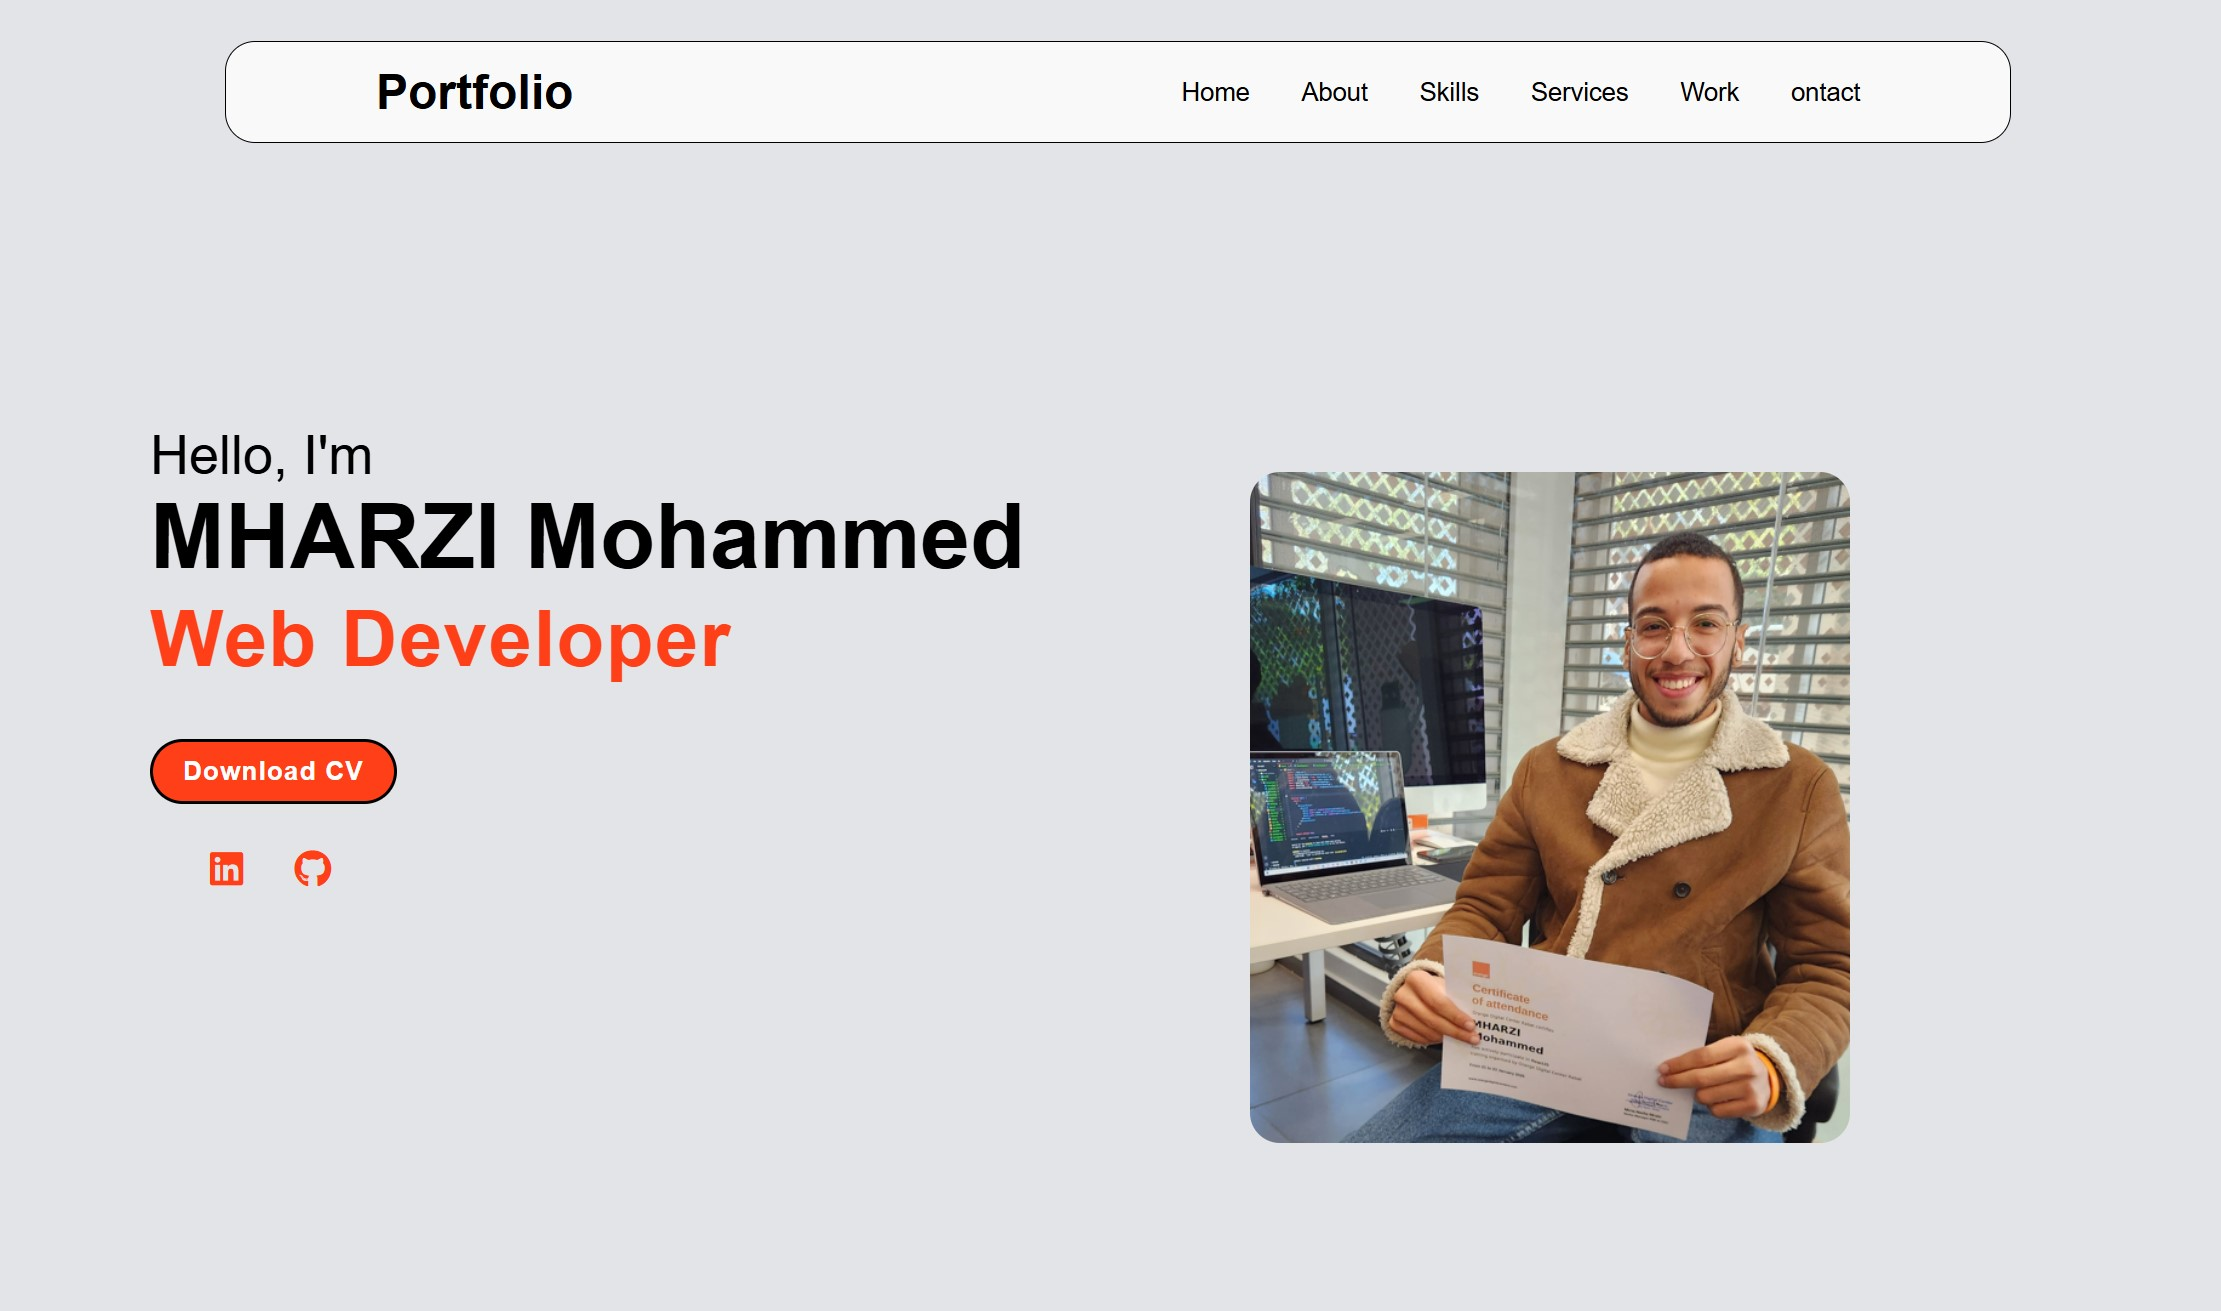
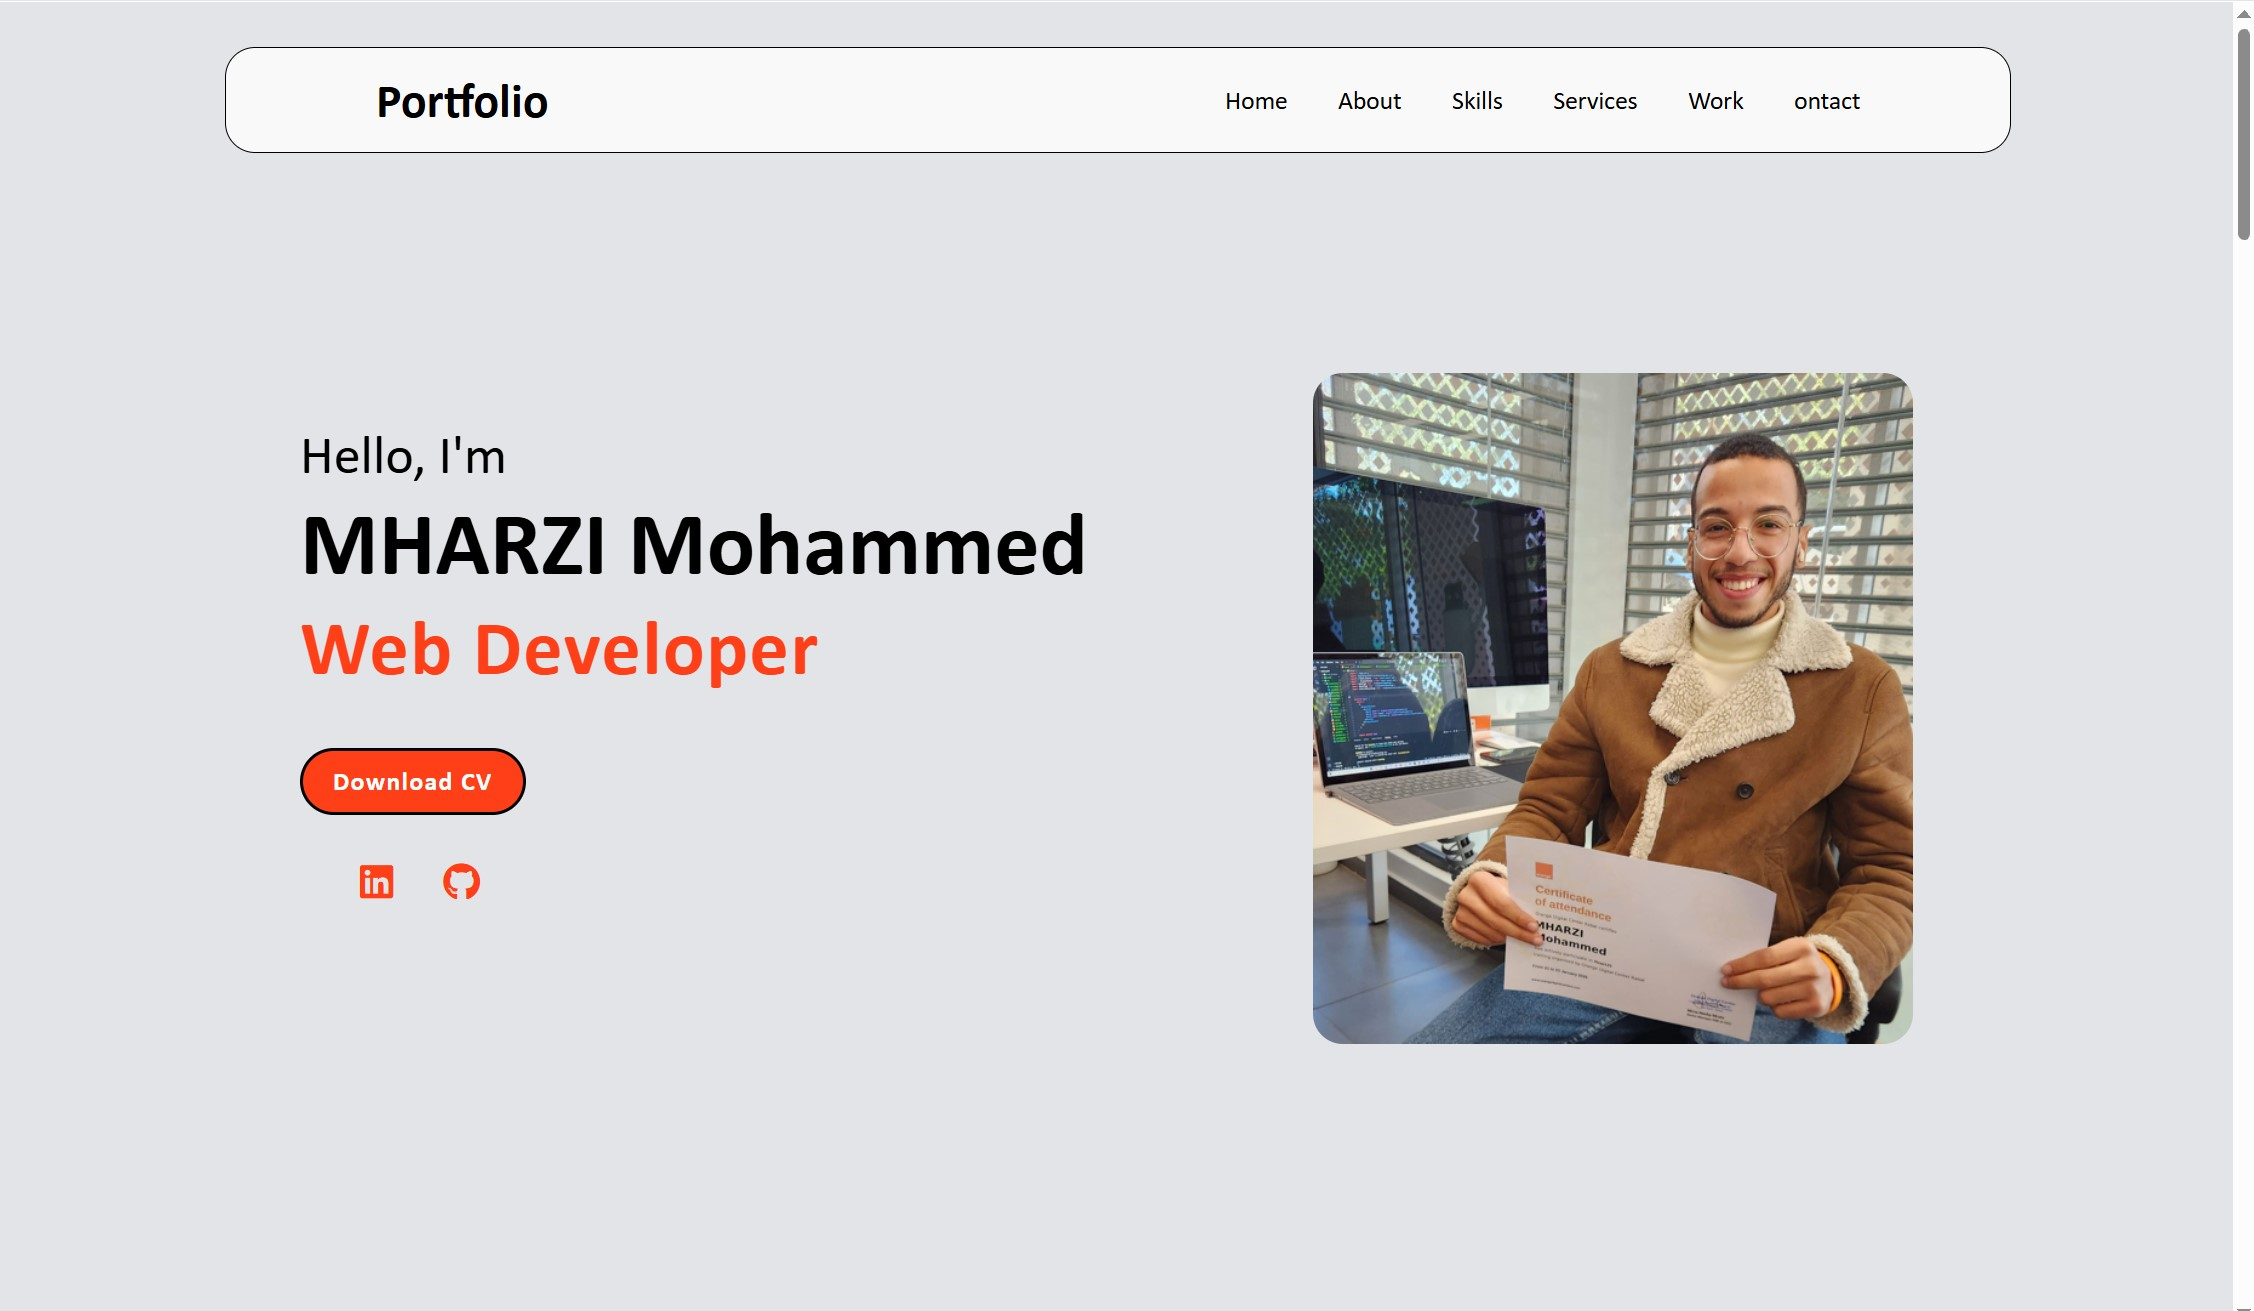
update css

diff --git a/style.css b/style.css
@@ -5,7 +5,7 @@
   padding: 0;
   box-sizing: border-box;
   scroll-behavior: smooth;
-  font-family: 'Poppins', sans-serif;
+  font-family: 'Calibri', sans-serif;
 }
 
 header {
@@ -71,13 +71,15 @@ section {
 
 .main .content {
   max-width: 50%;
+  position: relative;
+  left: 100px;
 }
 
 .profil{
   max-width: 50%;
   position: relative;
-  left:150px;
-  top: 100px;
+  left:250px;
+  top: 30px;
   width: 400px;
   border-radius: 20px;
 }
@@ -384,7 +386,7 @@ section {
 }
 
 .work .content .card {
-  width: 340px;
+  width: 370px;
   margin: 15px;
 }
 
